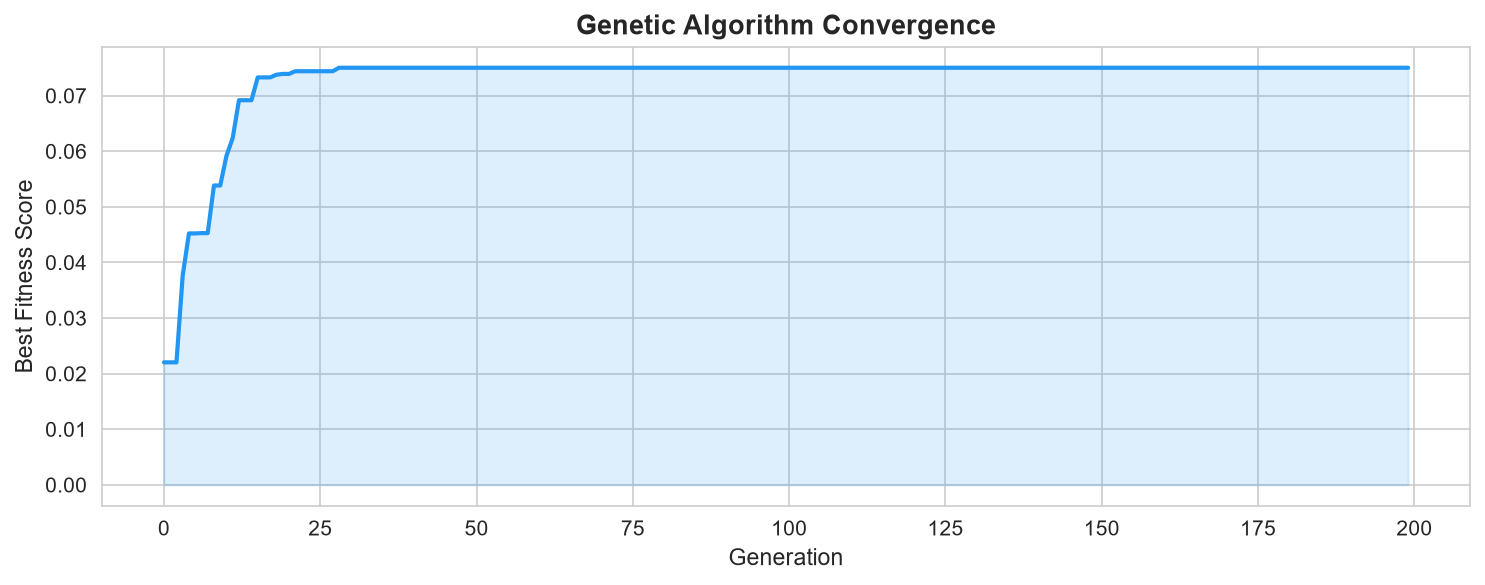
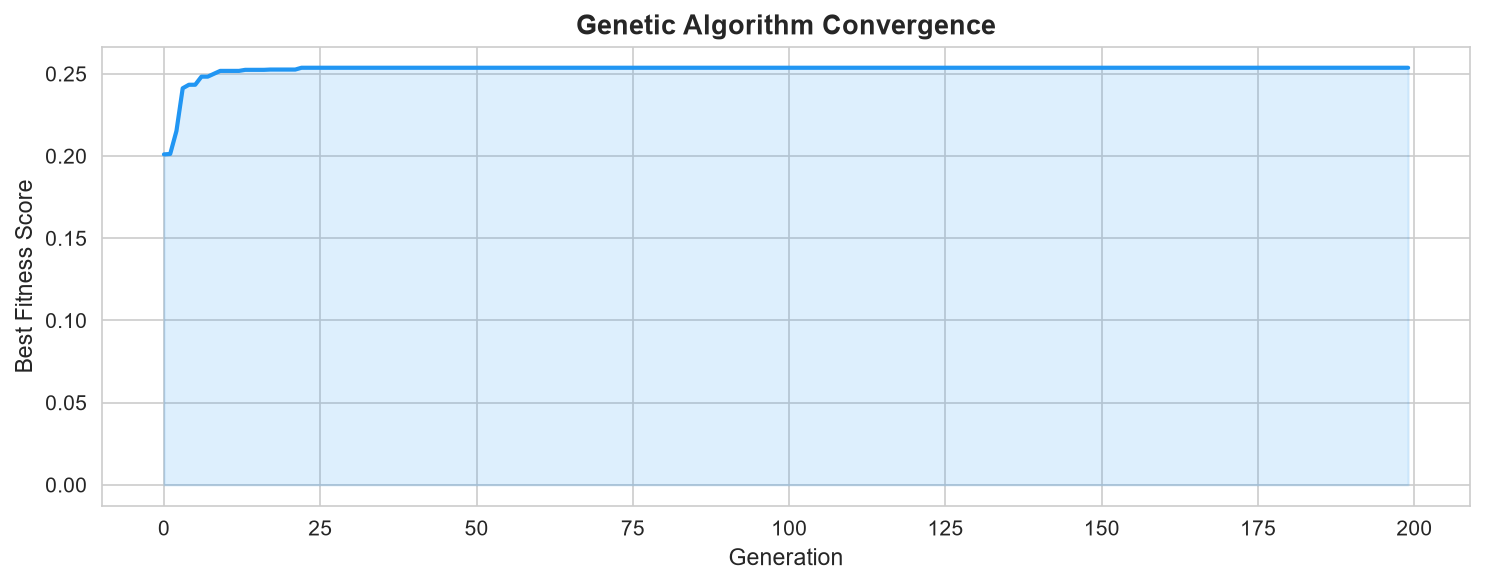
Enhance KPI status flags and mobile dashboard

diff --git a/static/css/styles.css b/static/css/styles.css
@@ -237,10 +237,17 @@ input:focus {
 .accent-amber { background: linear-gradient(180deg, rgba(244,169,74,0.08), rgba(255,255,255,0.96)); }
 .accent-green { background: linear-gradient(180deg, rgba(36,183,125,0.08), rgba(255,255,255,0.96)); }
 
+.metric-head {
+  display: flex;
+  align-items: center;
+  justify-content: space-between;
+  gap: 10px;
+  margin-bottom: 12px;
+}
+
 .metric-label {
   color: var(--muted);
   font-size: 0.82rem;
-  margin-bottom: 12px;
 }
 
 .metric-value {
@@ -254,6 +261,37 @@ input:focus {
 .metric-unit {
   font-size: 0.72rem;
   color: var(--muted);
+}
+
+.status-badge {
+  display: inline-flex;
+  align-items: center;
+  justify-content: center;
+  border-radius: 999px;
+  padding: 5px 10px;
+  font-size: 0.68rem;
+  font-weight: 700;
+  letter-spacing: 0.03em;
+  text-transform: uppercase;
+  border: 1px solid transparent;
+}
+
+.status-badge.good {
+  background: rgba(36, 183, 125, 0.12);
+  border-color: rgba(36, 183, 125, 0.22);
+  color: #0f7a53;
+}
+
+.status-badge.moderate {
+  background: rgba(244, 169, 74, 0.12);
+  border-color: rgba(244, 169, 74, 0.22);
+  color: #8c5b00;
+}
+
+.status-badge.bad {
+  background: rgba(220, 79, 79, 0.12);
+  border-color: rgba(220, 79, 79, 0.22);
+  color: #ae2c2c;
 }
 
 .signal-strip {
@@ -300,12 +338,19 @@ input:focus {
   padding: 22px 24px 0;
 }
 
-.image-grid figure {
+.gallery-card {
   margin: 0;
   background: rgba(245, 249, 255, 0.8);
   border: 1px solid rgba(124, 149, 182, 0.18);
   border-radius: 18px;
   overflow: hidden;
+  cursor: pointer;
+  transition: transform 0.18s ease, box-shadow 0.18s ease;
+}
+
+.gallery-card:hover {
+  transform: translateY(-3px);
+  box-shadow: 0 16px 28px rgba(47, 126, 246, 0.11);
 }
 
 .image-grid img {
@@ -323,6 +368,66 @@ input:focus {
   background: rgba(255, 255, 255, 0.7);
 }
 
+.image-modal {
+  position: fixed;
+  inset: 0;
+  display: none;
+  align-items: center;
+  justify-content: center;
+  z-index: 30;
+}
+
+.image-modal.is-visible {
+  display: flex;
+}
+
+.image-modal-backdrop {
+  position: absolute;
+  inset: 0;
+  background: rgba(10, 17, 30, 0.72);
+}
+
+.image-modal-content {
+  position: relative;
+  z-index: 1;
+  width: min(900px, calc(100vw - 32px));
+  background: rgba(255,255,255,0.96);
+  border-radius: 22px;
+  padding: 22px;
+  box-shadow: 0 30px 60px rgba(16, 36, 63, 0.35);
+}
+
+.image-modal-content img {
+  display: block;
+  width: 100%;
+  max-height: 74vh;
+  object-fit: contain;
+  border-radius: 14px;
+  background: #f3f7ff;
+}
+
+.image-modal-title {
+  margin-top: 12px;
+  text-align: center;
+  font-weight: 700;
+  color: var(--text);
+}
+
+.image-modal-close {
+  position: absolute;
+  right: 15px;
+  top: 12px;
+  border: none;
+  width: 38px;
+  height: 38px;
+  border-radius: 50%;
+  font-size: 1.8rem;
+  line-height: 1;
+  cursor: pointer;
+  background: rgba(17, 34, 58, 0.08);
+  color: var(--text);
+}
+
 .chart-box {
   position: relative;
   z-index: 1;
@@ -338,7 +443,8 @@ input:focus {
 
 @media (max-width: 920px) {
   .dashboard-grid,
-  .analytics-grid {
+  .analytics-grid,
+  .image-grid {
     grid-template-columns: 1fr;
   }
 
@@ -349,5 +455,46 @@ input:focus {
   .topbar {
     flex-direction: column;
     align-items: flex-start;
+  }
+
+  body {
+    padding: 18px;
+  }
+
+  .page-shell {
+    width: 100%;
+  }
+
+  .panel-header {
+    flex-direction: column;
+    align-items: flex-start;
+  }
+}
+
+@media (max-width: 600px) {
+  .inputs-grid {
+    grid-template-columns: 1fr;
+  }
+
+  .signal-strip {
+    grid-template-columns: 1fr;
+  }
+
+  .metric-head {
+    align-items: flex-start;
+    flex-direction: column;
+  }
+
+  .brand-wrap {
+    align-items: flex-start;
+  }
+
+  .brand-mark {
+    width: 48px;
+    height: 48px;
+  }
+
+  .image-grid img {
+    height: 180px;
   }
 }

diff --git a/static/js/script.js b/static/js/script.js
@@ -23,12 +23,46 @@ function readPayload() {
   }, {});
 }
 
+function getFlagLabel(value, type) {
+  if (type === 'capture') {
+    if (value >= 75) return { label: 'Good', className: 'good' };
+    if (value >= 45) return { label: 'Moderate', className: 'moderate' };
+    return { label: 'Bad', className: 'bad' };
+  }
+
+  if (type === 'duty') {
+    if (value <= 3.5) return { label: 'Good', className: 'good' };
+    if (value <= 5.0) return { label: 'Moderate', className: 'moderate' };
+    return { label: 'Bad', className: 'bad' };
+  }
+
+  if (value >= 3500) return { label: 'Good', className: 'good' };
+  if (value >= 2500) return { label: 'Moderate', className: 'moderate' };
+  return { label: 'Bad', className: 'bad' };
+}
+
+function updateFlag(elementId, value, type) {
+  const { label, className } = getFlagLabel(value, type);
+  const element = document.getElementById(elementId);
+  if (!element) return;
+  element.textContent = label;
+  element.className = `status-badge ${className}`;
+}
+
 function setMetricValues(data) {
-  document.getElementById('captureValue').textContent = Number(data.capture_efficiency_pct).toFixed(2);
-  document.getElementById('dutyValue').textContent = Number(data.reboiler_duty_mj_kg_co2).toFixed(4);
-  document.getElementById('removedValue').textContent = Number(data.estimated_co2_removed_kg_hr).toFixed(2);
+  const capture = Number(data.capture_efficiency_pct);
+  const duty = Number(data.reboiler_duty_mj_kg_co2);
+  const co2Removed = Number(data.estimated_co2_removed_kg_hr);
+
+  document.getElementById('captureValue').textContent = capture.toFixed(2);
+  document.getElementById('dutyValue').textContent = duty.toFixed(4);
+  document.getElementById('removedValue').textContent = co2Removed.toFixed(2);
   document.getElementById('removedKmol').textContent = Number(data.estimated_co2_removed_kmol_hr).toFixed(4);
   document.getElementById('thermalLoad').textContent = Number(data.reboiler_total_mj_hr).toFixed(2);
+
+  updateFlag('captureFlag', capture, 'capture');
+  updateFlag('dutyFlag', duty, 'duty');
+  updateFlag('removedFlag', co2Removed, 'co2');
 }
 
 window.runPrediction = async function runPrediction() {
@@ -114,8 +148,37 @@ function apply3DMovement() {
 
 document.getElementById('runPrediction').addEventListener('click', runPrediction);
 
+function setupGalleryModal() {
+  const modal = document.getElementById('imageModal');
+  const modalImg = document.getElementById('modalImage');
+  const modalTitle = document.getElementById('modalTitle');
+  const closeButton = document.querySelector('.image-modal-close');
+
+  document.querySelectorAll('.gallery-card').forEach((card) => {
+    card.addEventListener('click', () => {
+      modalImg.src = card.dataset.src;
+      modalTitle.textContent = card.dataset.title;
+      modal.classList.add('is-visible');
+      modal.setAttribute('aria-hidden', 'false');
+    });
+  });
+
+  const closeModal = () => {
+    modal.classList.remove('is-visible');
+    modal.setAttribute('aria-hidden', 'true');
+  };
+
+  closeButton.addEventListener('click', closeModal);
+  modal.addEventListener('click', (event) => {
+    if (event.target.dataset.close === 'true' || event.target === modal) {
+      closeModal();
+    }
+  });
+}
+
 window.addEventListener('load', async () => {
   apply3DMovement();
+  setupGalleryModal();
   await runPrediction();
 });
 

diff --git a/templates/index.html b/templates/index.html
@@ -76,19 +76,28 @@
 
           <div class="metric-grid">
             <article class="metric-card accent-blue">
-              <div class="metric-label">Capture efficiency</div>
+              <div class="metric-head">
+                <div class="metric-label">Capture efficiency</div>
+                <span class="status-badge moderate" id="captureFlag">Moderate</span>
+              </div>
               <div class="metric-value" id="captureValue">0.00</div>
               <div class="metric-unit">%</div>
             </article>
 
             <article class="metric-card accent-amber">
-              <div class="metric-label">Reboiler duty</div>
+              <div class="metric-head">
+                <div class="metric-label">Reboiler duty</div>
+                <span class="status-badge moderate" id="dutyFlag">Moderate</span>
+              </div>
               <div class="metric-value" id="dutyValue">0.0000</div>
               <div class="metric-unit">MJ/kg CO₂</div>
             </article>
 
             <article class="metric-card accent-green">
-              <div class="metric-label">CO₂ removed</div>
+              <div class="metric-head">
+                <div class="metric-label">CO₂ removed</div>
+                <span class="status-badge moderate" id="removedFlag">Moderate</span>
+              </div>
               <div class="metric-value" id="removedValue">0.00</div>
               <div class="metric-unit">kg/hr</div>
             </article>
@@ -133,24 +142,33 @@
           <span>Verified performance plots</span>
         </div>
         <div class="image-grid">
-          <figure>
+          <figure class="gallery-card" data-title="Model comparison" data-src="/y/model_comparison.png">
             <img src="/y/model_comparison.png" alt="Model comparison results" />
             <figcaption>Model comparison</figcaption>
           </figure>
-          <figure>
+          <figure class="gallery-card" data-title="Actual vs predicted" data-src="/y/parity_plots.png">
             <img src="/y/parity_plots.png" alt="Parity plots for actual versus predicted outputs" />
             <figcaption>Actual vs predicted</figcaption>
           </figure>
-          <figure>
+          <figure class="gallery-card" data-title="Feature importance" data-src="/y/feature_importance.png">
             <img src="/y/feature_importance.png" alt="Feature importance plot" />
             <figcaption>Feature importance</figcaption>
           </figure>
-          <figure>
+          <figure class="gallery-card" data-title="GA convergence" data-src="/y/ga_convergence.png">
             <img src="/y/ga_convergence.png" alt="Genetic algorithm convergence plot" />
             <figcaption>GA convergence</figcaption>
           </figure>
         </div>
       </section>
+    </div>
+
+    <div id="imageModal" class="image-modal" aria-hidden="true">
+      <div class="image-modal-backdrop" data-close="true"></div>
+      <div class="image-modal-content">
+        <button class="image-modal-close" type="button" aria-label="Close image">×</button>
+        <img id="modalImage" src="" alt="Expanded evaluation plot" />
+        <div id="modalTitle" class="image-modal-title">Evaluation plot</div>
+      </div>
     </div>
 
     <script src="{{ url_for('static', filename='js/script.js') }}"></script>
